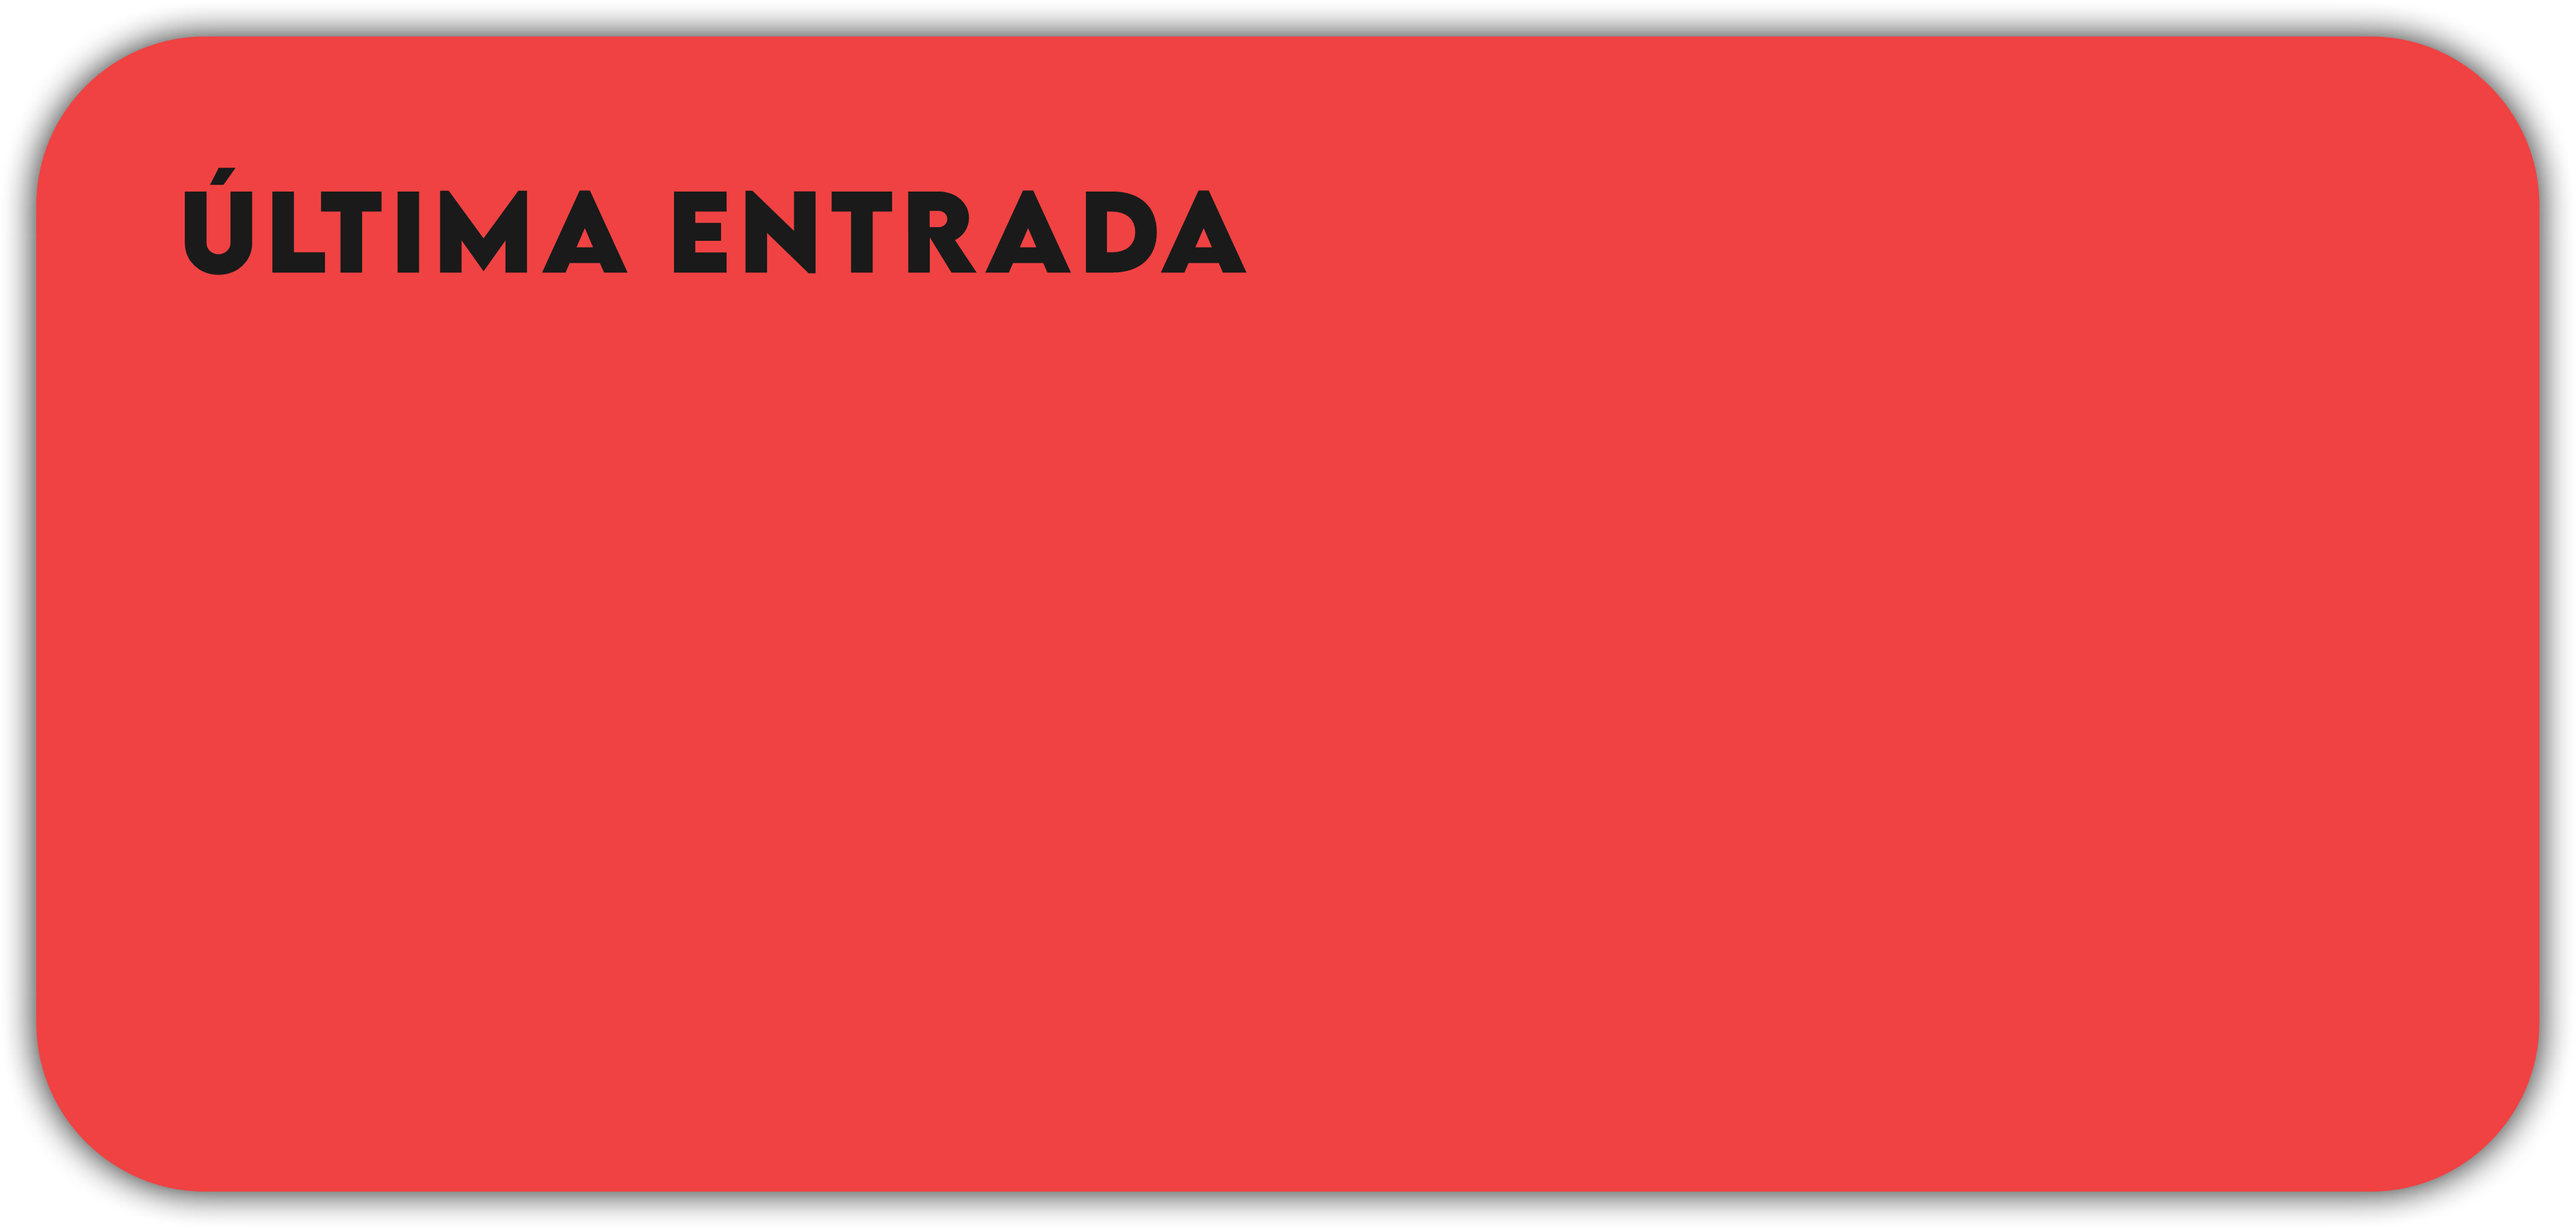
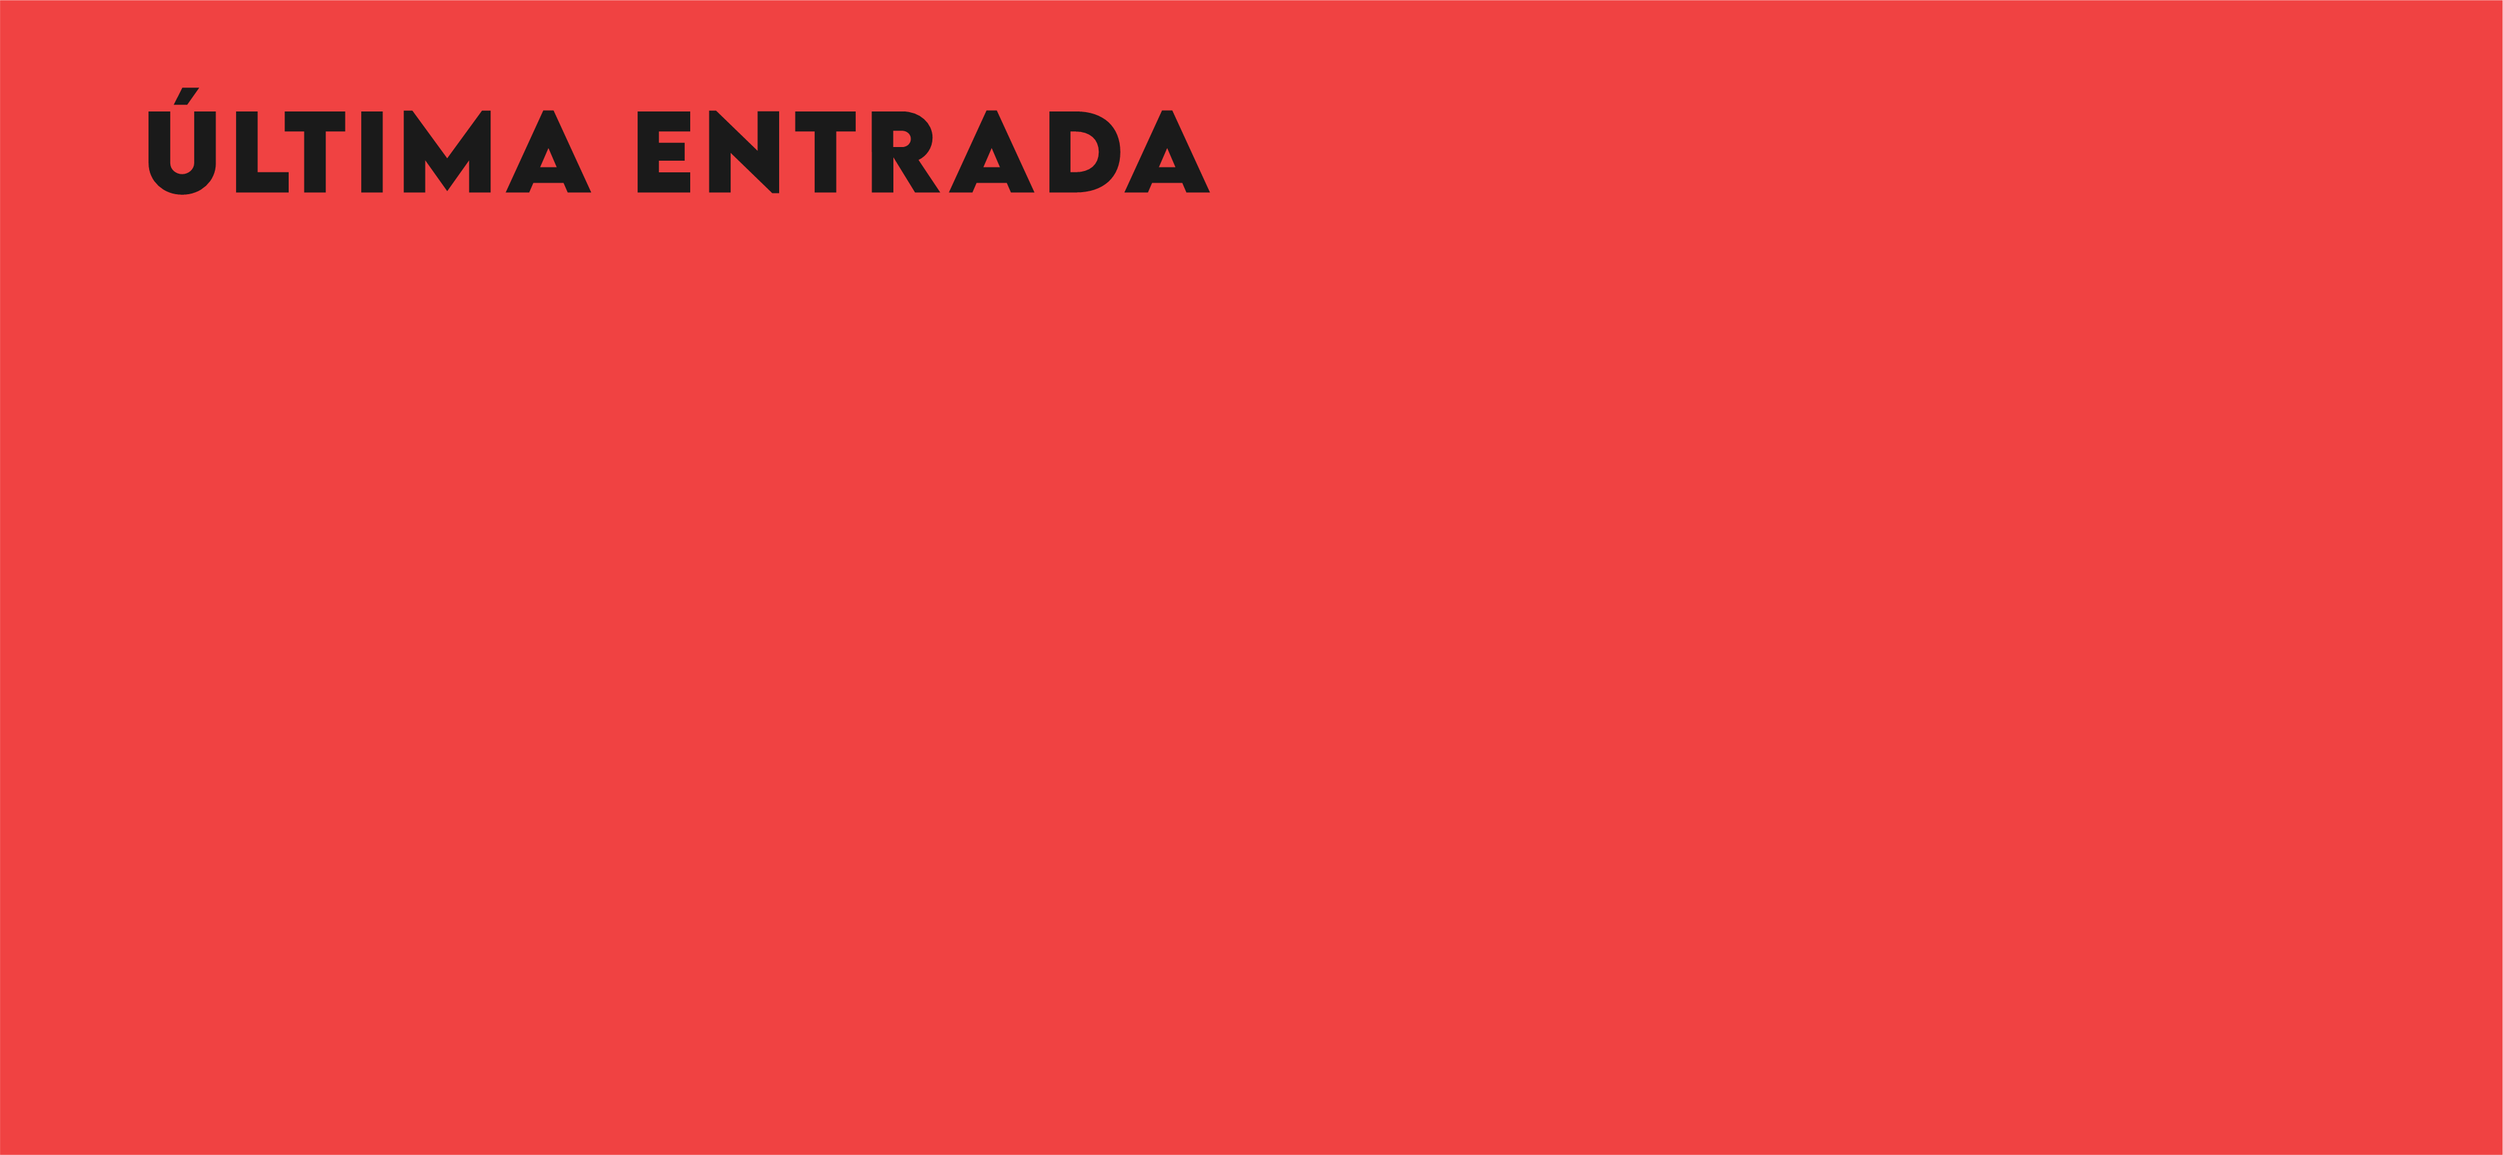
feat: remoção de borderRadius em itemContainer

Changed region(s): [[0.0, 0.0, 1.0, 1.0], [0.0623, 0.0616, 0.4985, 0.2463]]

diff --git a/src/app/(tabs)/ultimateRegister.tsx b/src/app/(tabs)/ultimateRegister.tsx
@@ -208,7 +208,7 @@ const styles = StyleSheet.create({
    itemContainer: {
       padding: 10,
       marginBottom: 10,
-      borderRadius: 5,
+     
       borderWidth: 1,
       borderColor: '#ccc',
       backgroundColor: '#fff'
